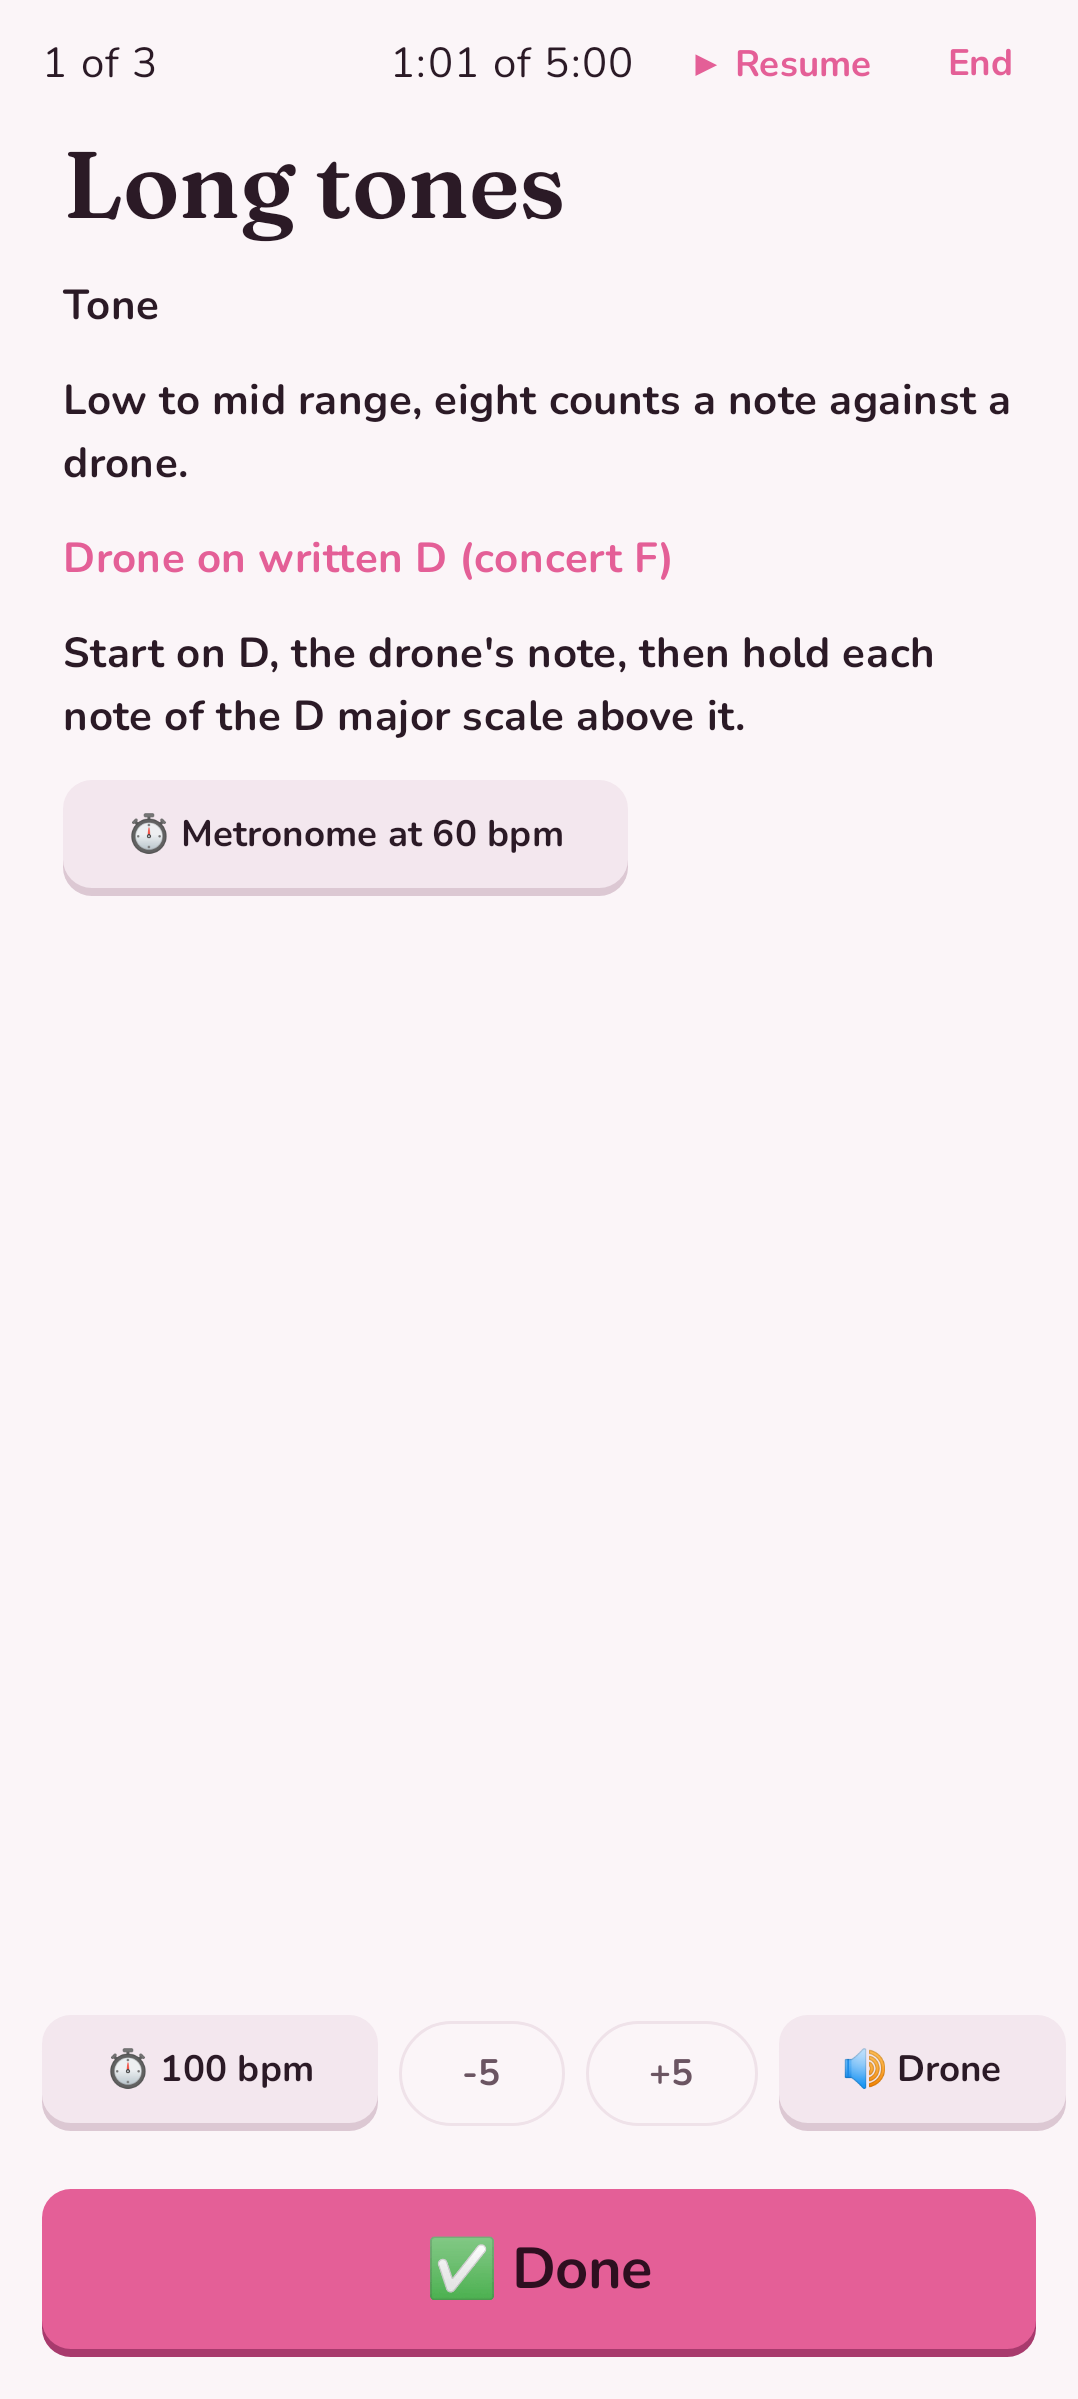
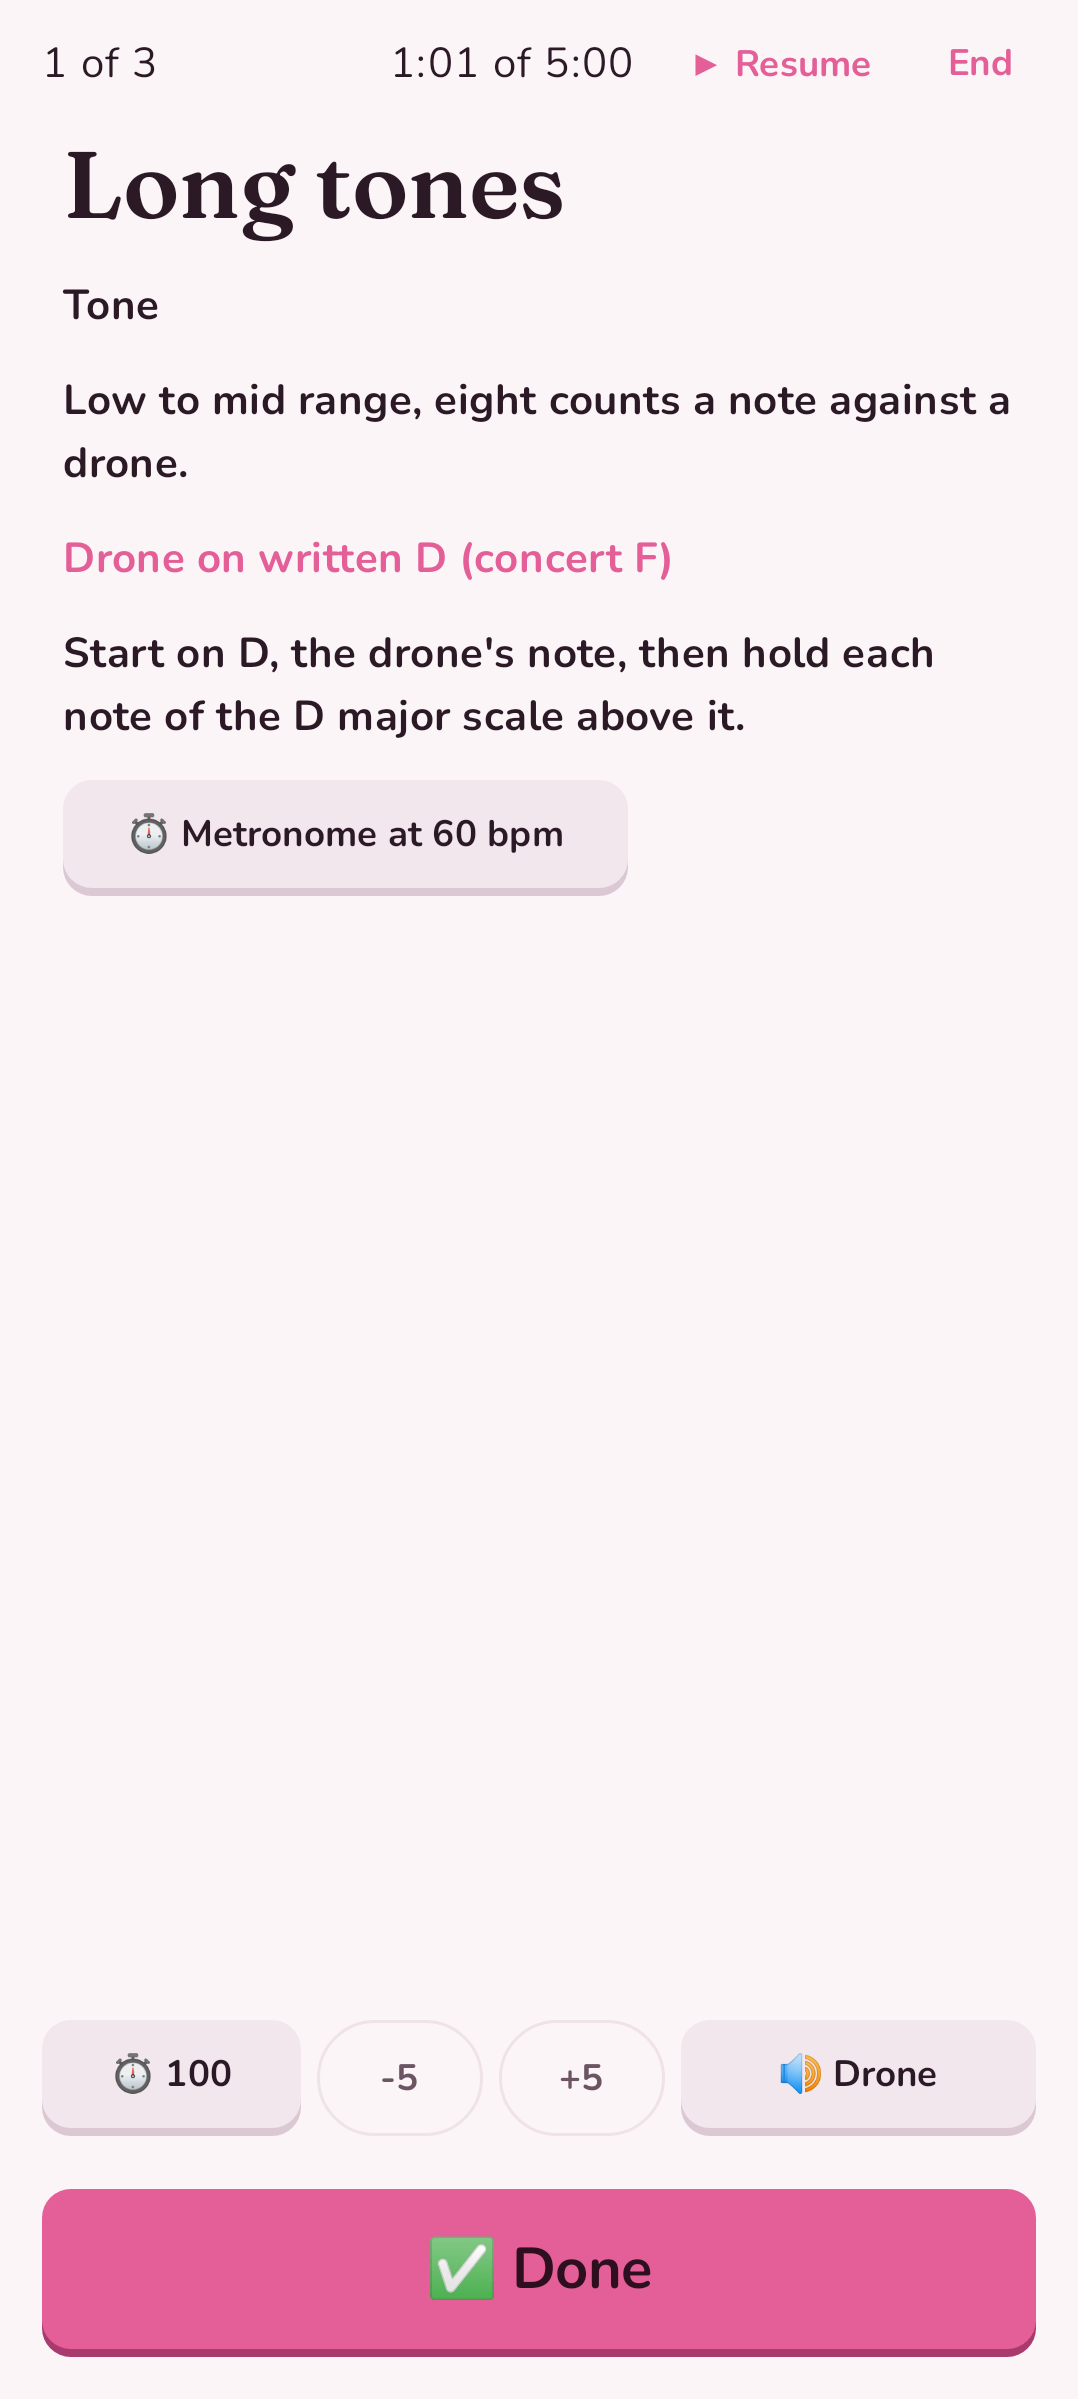
fix(app): fit the session's metronome and drone controls in one row

Changed region(s): [[0.6122, 0.8328, 0.9796, 0.8945], [0.0612, 0.8328, 0.3367, 0.8945]]

diff --git a/app/src/main/java/com/larakelley/woodshed/ui/practice/PracticeScreen.kt b/app/src/main/java/com/larakelley/woodshed/ui/practice/PracticeScreen.kt
@@ -50,6 +50,8 @@ import androidx.compose.ui.platform.LocalContext
 import androidx.compose.ui.platform.LocalUriHandler
 import androidx.compose.ui.platform.LocalView
 import androidx.compose.ui.platform.testTag
+import androidx.compose.ui.semantics.contentDescription
+import androidx.compose.ui.semantics.semantics
 import androidx.compose.ui.unit.dp
 import androidx.core.content.ContextCompat
 import com.larakelley.woodshed.domain.Focus
@@ -342,12 +344,13 @@ fun SessionScreen(
   onSetBpm: (Int) -> Unit = {},
 ) {
   @Composable
-  fun DroneButton(label: String, pitchClass: Int?) {
+  fun DroneButton(label: String, pitchClass: Int?, modifier: Modifier) {
     StickerButton(
       onClick = { if (dronePlaying) onStopDrone() else onDrone(pitchClass) },
       sticker = neutralSticker,
-      modifier = Modifier.height(44.dp).testTag("use-drone"),
-    ) { Text(if (dronePlaying) "◼ Stop the drone" else label, style = MaterialTheme.typography.labelLarge) }
+      modifier = modifier.height(44.dp).testTag("use-drone"),
+      contentPadding = PaddingValues(horizontal = 8.dp),
+    ) { Text(if (dronePlaying) "◼ Stop drone" else label, style = MaterialTheme.typography.labelLarge, maxLines = 1, softWrap = false) }
   }
   val view = LocalView.current
   val uris = LocalUriHandler.current
@@ -443,21 +446,38 @@ fun SessionScreen(
         }
       }
     }
-    // The metronome and drone stay in reach on every block, so stopping one never means leaving the session.
+    // The metronome and drone stay in reach on every block, so stopping one never means leaving the session. The row
+    // shares out the width rather than scrolling, so every control shows at once.
     Row(
-      Modifier.fillMaxWidth().horizontalScroll(rememberScrollState()).padding(horizontal = 16.dp, vertical = 4.dp).testTag("session-tools"),
-      horizontalArrangement = Arrangement.spacedBy(8.dp),
+      Modifier.fillMaxWidth().padding(horizontal = 16.dp, vertical = 4.dp).testTag("session-tools"),
+      horizontalArrangement = Arrangement.spacedBy(6.dp),
       verticalAlignment = Alignment.CenterVertically,
     ) {
-      StickerButton(onClick = onToggleMetronome, sticker = neutralSticker, modifier = Modifier.height(44.dp).testTag("session-metronome")) {
-        Text(if (metronomeRunning) "◼ $bpm bpm" else "⏱ $bpm bpm", style = MaterialTheme.typography.labelLarge)
-      }
-      OutlinedButton(onClick = { onSetBpm(bpm - 5) }, modifier = Modifier.testTag("session-slower")) { Text("-5") }
-      OutlinedButton(onClick = { onSetBpm(bpm + 5) }, modifier = Modifier.testTag("session-faster")) { Text("+5") }
+      StickerButton(
+        onClick = onToggleMetronome,
+        sticker = neutralSticker,
+        modifier = Modifier.weight(1.1f).height(44.dp).semantics {
+          contentDescription =
+            if (metronomeRunning) "Stop the metronome, $bpm bpm" else "Start the metronome at $bpm bpm"
+        }
+          .testTag("session-metronome"),
+        contentPadding = PaddingValues(horizontal = 8.dp),
+      ) { Text(if (metronomeRunning) "◼ $bpm" else "⏱ $bpm", style = MaterialTheme.typography.labelLarge, maxLines = 1, softWrap = false) }
+      OutlinedButton(
+        onClick = { onSetBpm(bpm - 5) },
+        modifier = Modifier.weight(0.7f).height(44.dp).testTag("session-slower"),
+        contentPadding = PaddingValues(0.dp),
+      ) { Text("-5", maxLines = 1) }
+      OutlinedButton(
+        onClick = { onSetBpm(bpm + 5) },
+        modifier = Modifier.weight(0.7f).height(44.dp).testTag("session-faster"),
+        contentPadding = PaddingValues(0.dp),
+      ) { Text("+5", maxLines = 1) }
+      val droneModifier = Modifier.weight(1.5f)
       when {
-        step is StepView.Tune && step.card.concertPitchClass != null -> DroneButton("🔊 Drone on the key", step.card.concertPitchClass)
-        step is StepView.Exercise && step.drone != null -> DroneButton("🔊 Drone", step.drone.concertPitchClass)
-        else -> DroneButton("🔊 Drone", null)
+        step is StepView.Tune && step.card.concertPitchClass != null -> DroneButton("🔊 Drone", step.card.concertPitchClass, droneModifier)
+        step is StepView.Exercise && step.drone != null -> DroneButton("🔊 Drone", step.drone.concertPitchClass, droneModifier)
+        else -> DroneButton("🔊 Drone", null, droneModifier)
       }
     }
     when (step) {

diff --git a/app/src/test/java/com/larakelley/woodshed/ui/practice/PracticeScreenTest.kt b/app/src/test/java/com/larakelley/woodshed/ui/practice/PracticeScreenTest.kt
@@ -112,10 +112,10 @@ class PracticeScreenTest {
     }
     compose.mainClock.advanceTimeByFrame()
 
-    compose.onNodeWithText("⏱ 120 bpm").performClick()
+    compose.onNodeWithText("⏱ 120").performClick()
     compose.mainClock.advanceTimeByFrame()
     compose.mainClock.advanceTimeBy(500)
-    compose.onNodeWithText("◼ 120 bpm").assertExists()
+    compose.onNodeWithText("◼ 120").assertExists()
     compose.onNodeWithTag("session-faster").performClick()
     compose.onNodeWithTag("session-slower").performClick()
     assertEquals(1, toggled)
